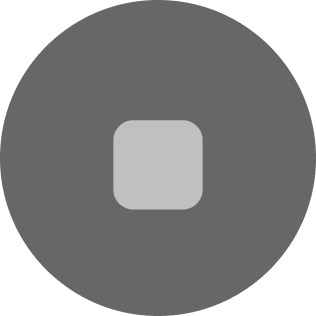
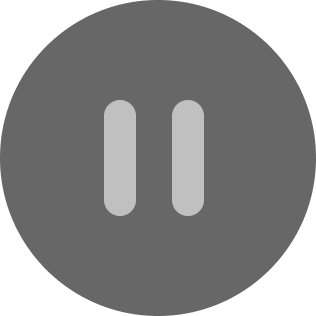
feat: flogging

Changed region(s): [[0.3133, 0.3133, 0.6551, 0.6835]]

diff --git a/trab_front/lib/feature/flogging/presentation/view/flogging_end_screen.dart b/trab_front/lib/feature/flogging/presentation/view/flogging_end_screen.dart
@@ -1,11 +1,21 @@
+import 'dart:io';
+
 import 'package:flutter/material.dart';
 import 'package:flutter/services.dart';
 import 'package:flutter_riverpod/flutter_riverpod.dart';
 import 'package:flutter_screenutil/flutter_screenutil.dart';
 import 'package:flutter_svg/svg.dart';
+import 'package:trab_front/config/routes/app_router.dart';
+import 'package:trab_front/config/routes/routes.dart';
+import 'package:trab_front/feature/common/widget/container_button.dart';
+import 'package:trab_front/feature/common/widget/custom_appbar.dart';
+import 'package:trab_front/feature/flogging/presentation/view/map_screen.dart';
+import 'package:trab_front/feature/flogging/presentation/viewmodel/flogging_info_view_model.dart';
 import 'package:trab_front/helpers/constants/app_colors.dart';
 import 'package:trab_front/helpers/constants/app_svgs.dart';
 import 'package:trab_front/helpers/constants/app_typography.dart';
+import 'package:trab_front/helpers/constants/strings.dart';
+import 'package:trab_front/helpers/extensions/datetime_extension.dart';
 
 class FloggingEndScreen extends ConsumerStatefulWidget {
   const FloggingEndScreen({super.key});
@@ -27,6 +37,8 @@ class _FloggingEndScreenState extends ConsumerState<FloggingEndScreen> {
 
   @override
   Widget build(BuildContext context) {
+    List<File> _snacks = ref.watch(floggingInfoControllerProvider).trabSnacks;
+    String time = ref.watch(floggingInfoControllerProvider).time;
     return GestureDetector(
       onTap: () {
         FocusManager.instance.primaryFocus?.unfocus();
@@ -35,34 +47,18 @@ class _FloggingEndScreenState extends ConsumerState<FloggingEndScreen> {
         canPop: false,
         child: Scaffold(
           backgroundColor: AppColors.subColor,
-          appBar: AppBar(
+          appBar: CustomAppBar(
+            title: AppStrings.withTrabAgainToday,
             backgroundColor: AppColors.subColor,
-            toolbarHeight: 30.h,
             systemOverlayStyle: SystemUiOverlayStyle.light,
-            leadingWidth: double.infinity,
-            leading: Padding(
-              padding: EdgeInsets.only(left: 28.w),
-              child: Row(
-                children: [
-                  SvgPicture.asset(
-                    AppSvgs.leftArrow,
-                  ),
-                  SizedBox(
-                    width: 13.w,
-                  ),
-                  Text(
-                    "오늘도 트래비와 함께!",
-                    style: AppTypography.headline_3
-                        .copyWith(color: AppColors.body1),
-                  ),
-                ],
-              ),
-            ),
+            titleColor: AppColors.body1,
+            leadingColor: AppColors.body1,
+            onPressed: () =>
+                AppRouter.pushAndRemoveUntil(Routes.HomeScreenRoute),
           ),
           body: Padding(
-            padding: EdgeInsets.only(top: 63.h),
+            padding: EdgeInsets.only(top: 36.h),
             child: Container(
-              width: 390,
               decoration: ShapeDecoration(
                 color: AppColors.body1,
                 shape: RoundedRectangleBorder(
@@ -72,34 +68,77 @@ class _FloggingEndScreenState extends ConsumerState<FloggingEndScreen> {
                   ),
                 ),
               ),
-              child: Padding(
-                padding: EdgeInsets.symmetric(horizontal: 34.w),
-                child: Column(
-                  crossAxisAlignment: CrossAxisAlignment.start,
-                  children: [
-                    SizedBox(
-                      height: 34.h,
-                    ),
-                    Text(
-                      "DECEMBER 23, 2023",
-                      style: AppTypography.subTitle_1
-                          .copyWith(color: AppColors.textColor_1),
-                    ),
-                    TextField(
-                      decoration: InputDecoration(
-                        suffixIcon: SvgPicture.asset(
-                          'assets/svgs/edit.svg',
-                          color: AppColors.grey1,
+              child: Column(
+                children: [
+                  Padding(
+                    padding: EdgeInsets.symmetric(horizontal: 34.w),
+                    child: Column(
+                      crossAxisAlignment: CrossAxisAlignment.start,
+                      children: [
+                        SizedBox(
+                          height: 34.h,
                         ),
-                        enabledBorder: UnderlineInputBorder(
-                          borderSide: BorderSide(color: AppColors.grey1),
+                        Text(
+                          DateTime.now().getCurrentDateFormatted(),
+                          style: AppTypography.subTitle_1
+                              .copyWith(color: AppColors.textColor_1),
                         ),
-                        suffixIconConstraints:
-                            BoxConstraints(maxWidth: 24.w, maxHeight: 24.h),
-                      ),
+                        TextField(
+                          style: AppTypography.body
+                              .copyWith(color: AppColors.grey1),
+                          decoration: InputDecoration(
+                            suffixIcon: SvgPicture.asset(
+                              'assets/svgs/edit.svg',
+                              color: AppColors.grey1,
+                            ),
+                            enabledBorder: UnderlineInputBorder(
+                              borderSide: BorderSide(color: AppColors.grey1),
+                            ),
+                            suffixIconConstraints:
+                                BoxConstraints(maxWidth: 24.w, maxHeight: 24.h),
+                          ),
+                        ),
+                        SizedBox(
+                          height: 105.h,
+                          child: Row(
+                            crossAxisAlignment: CrossAxisAlignment.end,
+                            children: [
+                              Text(
+                                "0.00",
+                                style: AppTypography.headline_2
+                                    .copyWith(color: AppColors.textColor_2),
+                              ),
+                              SizedBox(
+                                width: 4.w,
+                              ),
+                              Text(
+                                "km",
+                                style: AppTypography.headline_2_1
+                                    .copyWith(color: AppColors.textColor_2),
+                              ),
+                            ],
+                          ),
+                        ),
+                        Row(
+                          children: [
+                            Text(
+                              _snacks.length.toString(),
+                              style: AppTypography.body_2
+                                  .copyWith(color: AppColors.textColor_2),
+                            )
+                          ],
+                        ),
+                      ],
                     ),
-                  ],
-                ),
+                  ),
+                  SizedBox(height: 300.h, child: const MapScreen()),
+                  SizedBox(
+                    height: 28.h,
+                  ),
+                  containerButton(
+                    title: AppStrings.snackSettlement,
+                  )
+                ],
               ),
             ),
           ),

diff --git a/trab_front/lib/feature/camera/presentation/view/eatting_snack_trab_screen.dart b/trab_front/lib/feature/camera/presentation/view/eatting_snack_trab_screen.dart
@@ -25,30 +25,32 @@ class _EattingSnackTrabScreenState
   @override
   Widget build(BuildContext context) {
     File image = ref.watch(cameraScreenControllerProvider).image!;
-    return Scaffold(
-      appBar: CustomAppBar(
-        title: AppStrings.empty,
-        onPressed: () => AppRouter.popUntil(Routes.HomeScreenRoute),
-      ),
-      body: SafeArea(
-        child: Padding(
-          padding: EdgeInsets.symmetric(horizontal: 25.w),
-          child: Column(
-            crossAxisAlignment: CrossAxisAlignment.center,
-            children: [
-              SizedBox(
-                height: 30.h,
-              ),
-              sortedTrashImage(image: image, text: AppStrings.plastic),
-              SizedBox(
-                height: 32.h,
-              ),
-              Image.asset("assets/images/seperation_and_discharge_1.png"),
-              SizedBox(
-                height: 35.h,
-              ),
-              containerButton(title: AppStrings.snackToTrab)
-            ],
+    return PopScope(
+      child: Scaffold(
+        appBar: CustomAppBar(
+          title: AppStrings.empty,
+          onPressed: () => AppRouter.popUntil(Routes.HomeScreenRoute),
+        ),
+        body: SafeArea(
+          child: Padding(
+            padding: EdgeInsets.symmetric(horizontal: 25.w),
+            child: Column(
+              crossAxisAlignment: CrossAxisAlignment.center,
+              children: [
+                SizedBox(
+                  height: 30.h,
+                ),
+                sortedTrashImage(image: image, text: AppStrings.plastic),
+                SizedBox(
+                  height: 32.h,
+                ),
+                Image.asset("assets/images/seperation_and_discharge_1.png"),
+                SizedBox(
+                  height: 35.h,
+                ),
+                containerButton(title: AppStrings.snackToTrab)
+              ],
+            ),
           ),
         ),
       ),

diff --git a/trab_front/lib/feature/flogging/presentation/view/flogging_timer_screen.dart b/trab_front/lib/feature/flogging/presentation/view/flogging_timer_screen.dart
@@ -1,3 +1,5 @@
+import 'dart:io';
+
 import 'package:flutter/material.dart';
 import 'package:flutter/services.dart';
 import 'package:flutter_riverpod/flutter_riverpod.dart';
@@ -32,6 +34,7 @@ class _FlogginTimerScreenState extends ConsumerState<FlogginTimerScreen> {
   @override
   Widget build(BuildContext context) {
     String _time = ref.watch(floggingInfoControllerProvider).time;
+    List<File> _snacks = ref.watch(floggingInfoControllerProvider).trabSnacks;
     bool _isFlogging = ref.watch(floggingInfoControllerProvider).isFlogging;
     return PopScope(
       canPop: false,
@@ -59,7 +62,7 @@ class _FlogginTimerScreenState extends ConsumerState<FlogginTimerScreen> {
                   height: 40.h,
                 ),
                 floggingTimerInfos(
-                  snack: "0",
+                  snack: _snacks.length.toString(),
                   calorie: "0",
                   time: _time,
                   distance: "0.00",

diff --git a/trab_front/lib/feature/common/widget/custom_appbar.dart b/trab_front/lib/feature/common/widget/custom_appbar.dart
@@ -18,10 +18,12 @@ class CustomAppBar extends StatelessWidget implements PreferredSizeWidget {
     this.systemOverlayStyle,
     this.bottom,
     this.onPressed,
+    this.leadingColor,
   });
   String title;
   Color? backgroundColor;
   Color? titleColor;
+  Color? leadingColor;
   SystemUiOverlayStyle? systemOverlayStyle;
   PreferredSizeWidget? bottom;
   void Function()? onPressed;
@@ -39,7 +41,7 @@ class CustomAppBar extends StatelessWidget implements PreferredSizeWidget {
             noPaddingButton(
               child: SvgPicture.asset(
                 AppSvgs.leftArrow,
-                color: AppColors.grey1,
+                color: leadingColor ?? AppColors.grey1,
               ),
               onPressed: onPressed ?? () => AppRouter.pop(),
             ),

diff --git a/trab_front/lib/feature/flogging/presentation/widget/flogging_timer_infos.dart b/trab_front/lib/feature/flogging/presentation/widget/flogging_timer_infos.dart
@@ -5,8 +5,12 @@ import 'package:trab_front/helpers/constants/app_typography.dart';
 import 'package:trab_front/helpers/constants/strings.dart';
 import 'package:trab_front/helpers/extensions/dateTime_extension.dart';
 
-Widget floggingTimerInfos(
-    {required snack, required calorie, required time, required distance}) {
+Widget floggingTimerInfos({
+  required snack,
+  required calorie,
+  required time,
+  required distance,
+}) {
   return Column(
     children: [
       Text(

diff --git a/trab_front/lib/config/routes/app_router.dart b/trab_front/lib/config/routes/app_router.dart
@@ -49,6 +49,13 @@ class AppRouter {
     );
   }
 
+  static Future<dynamic> pushAndRemoveUntil(String routeName, {dynamic args}) {
+    return navigatorKey.currentState!.pushAndRemoveUntil(
+      MaterialPageRoute(builder: (_) => Routes.getRoute(routeName)()),
+      (Route<dynamic> route) => false,
+    );
+  }
+
   static void popUntil(String routeName) {
     navigatorKey.currentState!.popUntil(
       ModalRoute.withName(routeName),

diff --git a/trab_front/lib/helpers/constants/app_typography.dart b/trab_front/lib/helpers/constants/app_typography.dart
@@ -71,6 +71,14 @@ class AppTypography {
     decoration: TextDecoration.none,
   );
 
+  static final body_2 = TextStyle(
+    fontFamily: "Pretendard",
+    fontSize: 36.sp,
+    fontWeight: FontWeight.w600,
+    color: Colors.black,
+    decoration: TextDecoration.none,
+  );
+
   static final body_3 = TextStyle(
     fontFamily: "Pretendard",
     fontSize: 16.sp,

diff --git a/trab_front/lib/feature/auth/domain/auth_domain.dart b/trab_front/lib/feature/auth/domain/auth_domain.dart
@@ -130,7 +130,7 @@ class AuthController extends _$AuthController {
   void signOut() async {
     try {
       await firebase_auth.FirebaseAuth.instance.signOut();
-      AppRouter.popUntil(Routes.LoginScreenRoute);
+      AppRouter.pushAndRemoveUntil(Routes.LoginScreenRoute);
     } catch (e) {
       print(e);
     }

diff --git a/trab_front/lib/feature/flogging/presentation/viewmodel/flogging_stop_view_model.dart b/trab_front/lib/feature/flogging/presentation/viewmodel/flogging_stop_view_model.dart
@@ -24,8 +24,7 @@ class FloggingStopController extends _$FloggingStopController {
   }
 
   void handlePressedStopButton() {
-    AppRouter.popUntilRoot();
-    AppRouter.popAndPushNamed(Routes.FloggingEndScreenRoute);
+    AppRouter.pushAndRemoveUntil(Routes.FloggingEndScreenRoute);
   }
 
   void showTrabInfos({

diff --git a/trab_front/lib/helpers/constants/strings.dart b/trab_front/lib/helpers/constants/strings.dart
@@ -66,4 +66,8 @@ class AppStrings {
   static String foodWaste = "음식물 쓰레기";
 
   static String snackToTrab = "트래비에게 간식주러 가기";
+
+  static String withTrabAgainToday = "오늘도 트래비와 함께!";
+
+  static String snackSettlement = "간식 정산하러 가기";
 }

diff --git a/trab_front/lib/feature/flogging/presentation/widget/stop_modal_info.dart b/trab_front/lib/feature/flogging/presentation/widget/stop_modal_info.dart
@@ -144,7 +144,7 @@ Widget trabModalInfos({
             children: [
               noPaddingButton(
                 child: Image.asset(
-                  AppImages.stopButton,
+                  AppImages.endButton,
                   width: 63.w,
                   height: 63.h,
                 ),

diff --git a/trab_front/lib/feature/camera/presentation/viewmodel/sorted_trash_screen_view_model.dart b/trab_front/lib/feature/camera/presentation/viewmodel/sorted_trash_screen_view_model.dart
@@ -19,6 +19,6 @@ class SortedTrashScreenController extends _$SortedTrashScreenController {
   }
 
   void handlePressedContainerButton() {
-    AppRouter.pushNamed(Routes.EattingSnackTrabScreenRoute);
+    AppRouter.popAndPushNamed(Routes.EattingSnackTrabScreenRoute);
   }
 }
